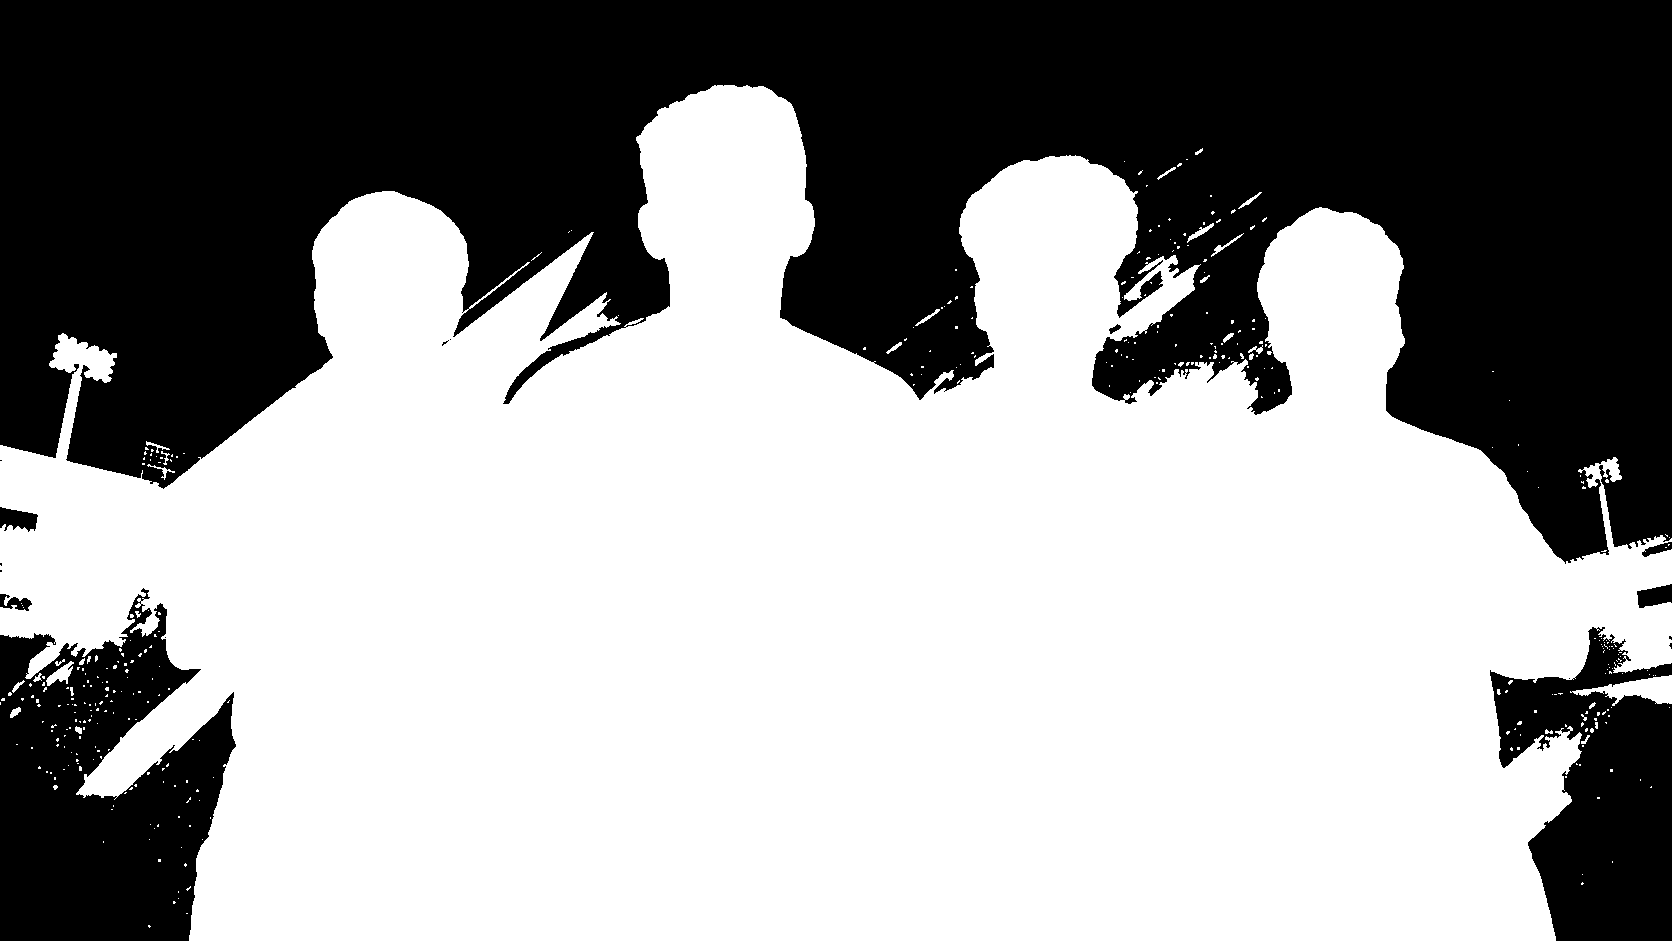
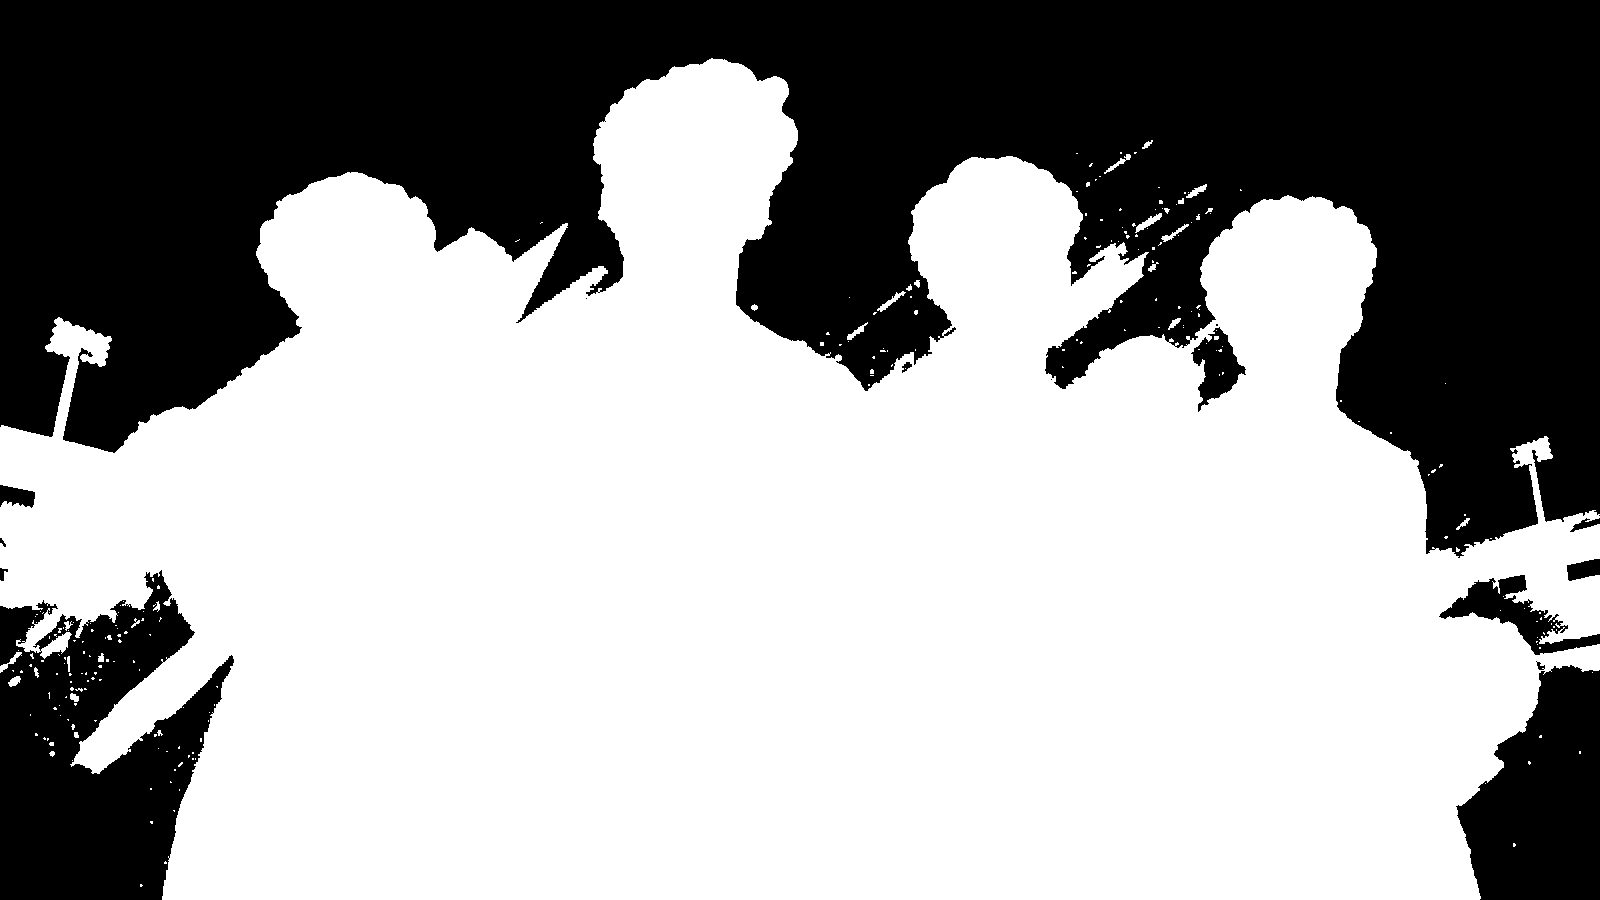
Replace the coaches with the new multi-sport team
"Our coaches" now shows the new group photo and four coaches, each
with a placeholder card: Karthik Raman (cricket), Senthil Arumugam
(founder, football), Harish Arumugam (badminton) and Vishal
Selvaraj (futsal & conditioning).

- scripts/build-team.py reworked for the new photos (JPEGs on a flat
  grey backdrop): it cuts each person out (keeping white kit, removing
  arm gaps and the light glow at the edges), aligns each cutout to the
  group photo and draws the hover outlines, picking whoever matches
  the portrait best where people overlap. RANSAC is seeded, so reruns
  are identical. Source photos live in ../replace-image (git-ignored).
- A hovered coach's head may now rise above the photo (clip-path in
  place of overflow: hidden) instead of being cut off.
- The matte, veil and bottom fade carry the page pattern; the section
  paints no background of its own.

diff --git a/marina-fc-site/src/sections/team/teamData.ts b/marina-fc-site/src/sections/team/teamData.ts
@@ -1,8 +1,10 @@
 /**
- * "Our coaches" content, transcribed from the client's cards in Reference/coaches/<name>/content.png.
+ * "Our coaches" content. Names and cards are placeholders for the pitch demo; photos are in
+ * ../replace-image.
  * Positions (where each cutout sits on the portrait, hover outlines) come from teamLayout.json,
  * generated by scripts/build-team.py; re-run it if the photos change.
  */
+import { CLUB } from '../../club'
 import layout from './teamLayout.json'
 
 export type CoachId = keyof typeof layout.people
@@ -22,53 +24,53 @@ export interface Coach {
 
 export const TEAM_COPY = {
   eyebrow: 'Our coaches',
-  title: 'The people behind Marina FC',
+  title: `The people behind ${CLUB.name}`,
   hintHover: 'Hover over a coach to meet them',
   hintTap: 'Tap a coach to meet them',
   qualificationsLabel: 'Qualifications & certifications',
   specializationLabel: 'Specialization',
 } as const
 
-/** Left to right, as they stand in the portrait. */
+/** Left to right, as they stand in the portrait. Placeholder people and copy for the pitch demo. */
 export const COACHES: readonly Coach[] = [
   {
-    id: 'mohan',
-    name: 'Mohan',
-    badge: 'Goalkeeper & grassroots coach',
-    role: 'Goalkeeper & Grassroots Coach',
-    qualifications: ['AIFF - D License Certified', 'Training Environment Design', 'Player Motivation & Discipline'],
-    bio: 'Mohan specializes in goalkeeper training and grassroots coaching, helping young athletes build strong fundamentals and technical confidence in goal.',
-    specialization: 'Goalkeeping techniques, youth fundamentals & grassroots development',
+    id: 'karthik',
+    name: 'Karthik Raman',
+    badge: 'Cricket coach',
+    role: 'Head Cricket Coach',
+    qualifications: ['Level 2 Cricket Coaching Certificate', 'Batting & Fielding Specialist', 'Video Match Analysis'],
+    bio: 'Karthik runs the cricket programme, from first net sessions to match-day squads, with a focus on sound technique, sharp fielding and reading the game.',
+    specialization: 'Batting technique, fielding drills & match awareness',
     side: 'right',
   },
   {
-    id: 'masthan',
-    name: 'Masthan Maharaj',
+    id: 'senthil',
+    name: 'Senthil Arumugam',
     badge: '2017–Present',
-    role: 'Founder & Technical Head',
-    qualifications: ['AFC-B License Certified', 'Professional Football Freestyler', 'Grassroots & Youth Development Specialist'],
-    bio: 'Masthan Maharaj founded Marina Football Club and has led its evolution from a local academy into a professional football ecosystem, blending grassroots philosophy with modern coaching standards.',
+    role: 'Founder & Head Football Coach',
+    qualifications: ['AFC B License Certified', 'Youth Academy Director', 'Grassroots & Youth Development Specialist'],
+    bio: `Senthil founded ${CLUB.name} and has grown it from weekend kickabouts into a multi-sport academy, pairing a grassroots philosophy with modern coaching standards.`,
     specialization: 'Technical methodology, player development & leadership',
     side: 'right',
   },
   {
-    id: 'vijay',
-    name: 'Vijay',
-    badge: 'Youth development coach',
-    role: 'Coach',
-    qualifications: ['AFC-Aligned Training Methods', 'Small-Sided Game Design', 'Player Progression Planning'],
-    bio: 'Vijay works with younger age groups to build confidence, ball mastery, and game understanding through structured sessions that are fun and purposeful.',
-    specialization: 'Technical drills, game understanding & player confidence',
+    id: 'harish',
+    name: 'Harish Arumugam',
+    badge: 'Badminton coach',
+    role: 'Badminton Coach',
+    qualifications: ['Certified Badminton Coach', 'Footwork & Agility Training', 'Junior Tournament Preparation'],
+    bio: 'Harish builds quick feet and quicker decisions on court, taking players from their first rallies to junior tournament play.',
+    specialization: 'Footwork, stroke technique & match tactics',
     side: 'left',
   },
   {
-    id: 'sathish',
-    name: 'Sathish',
-    badge: 'Performance & player support',
-    role: 'Coach',
-    qualifications: ['AIFF - D License Certified', 'Training Environment Design', 'Player Motivation & Discipline'],
-    bio: "Sathish helps players develop discipline, fitness, and match readiness while strengthening the academy's competitive culture.",
-    specialization: 'Physical conditioning, team coordination & athlete support',
+    id: 'vishal',
+    name: 'Vishal Selvaraj',
+    badge: 'Futsal & fitness',
+    role: 'Futsal & Conditioning Coach',
+    qualifications: ['Futsal Coaching License', 'Strength & Conditioning Certified', 'Injury Prevention & Recovery'],
+    bio: 'Vishal leads the futsal sessions and the strength work behind every squad, keeping players fast, sharp and match-ready all season.',
+    specialization: 'Small-sided play, speed & physical conditioning',
     side: 'left',
   },
 ]

diff --git a/marina-fc-site/src/sections/team/Team.tsx b/marina-fc-site/src/sections/team/Team.tsx
@@ -2,7 +2,9 @@ import { createTimeline, cubicBezier, stagger, utils } from 'animejs'
 import type { Timeline } from 'animejs'
 import { useCallback, useEffect, useRef, useState } from 'react'
 import type { CSSProperties, PointerEvent as ReactPointerEvent } from 'react'
+import { CLUB } from '../../club'
 import { prefersReducedMotion } from '../../lib/motion'
+import { usePaperSurface } from '../../lib/paperPattern'
 import { COACHES, TEAM_COPY, TEAM_LAYOUT } from './teamData'
 import type { Coach, CoachId } from './teamData'
 import './Team.css'
@@ -30,7 +32,7 @@ function cardStyle(coach: Coach): CSSProperties {
 }
 
 /**
- * "Our coaches": the client's team portrait with each person's own cutout stacked exactly over
+ * "Our coaches": the team portrait with each person's own cutout stacked exactly over
  * them (aligned by scripts/build-team.py). Hovering a person (tapping on touch screens, focusing
  * with the keyboard) blurs and softens the portrait, lifts that person's cutout forward and opens
  * their card. The portrait's white background meets the page colour through the same masked
@@ -40,6 +42,12 @@ export function Team() {
   const [active, setActive] = useState<CoachId | null>(null)
   const sectionRef = useRef<HTMLElement>(null)
   const stageRef = useRef<HTMLDivElement>(null)
+  const matteRef = useRef<HTMLSpanElement>(null)
+  const veilRef = useRef<HTMLSpanElement>(null)
+  const fadeRef = useRef<HTMLSpanElement>(null)
+  usePaperSurface(matteRef)
+  usePaperSurface(veilRef)
+  usePaperSurface(fadeRef)
   const cardRefs = useRef(new Map<CoachId, HTMLElement>())
   const lastPointer = useRef<string>('mouse')
 
@@ -194,7 +202,7 @@ export function Team() {
           <img
             className="team__portrait"
             src={portrait.src}
-            alt="The Marina FC coaching team: Mohan, founder Masthan Maharaj with a ball, Vijay and Sathish"
+            alt={`The ${CLUB.name} coaching team: ${COACHES.map((coach) => coach.name).join(', ')}`}
             width={portrait.width}
             height={portrait.height}
             loading="lazy"
@@ -202,8 +210,8 @@ export function Team() {
             draggable={false}
           />
           <img className="team__portrait team__portrait--soft" src={portrait.src} alt="" aria-hidden="true" loading="lazy" decoding="async" draggable={false} />
-          <span className="team__matte" aria-hidden="true" style={{ ['--matte' as string]: `url(${portrait.matte})` }} />
-          <span className="team__veil" aria-hidden="true" />
+          <span ref={matteRef} className="team__matte paper-surface" aria-hidden="true" style={{ ['--matte' as string]: `url(${portrait.matte})` }} />
+          <span ref={veilRef} className="team__veil paper-surface" aria-hidden="true" />
 
           {COACHES.map((coach) => {
             const { cutout, place } = people[coach.id]
@@ -219,7 +227,7 @@ export function Team() {
             )
           })}
 
-          <span className="team__fade" aria-hidden="true" />
+          <span ref={fadeRef} className="team__fade paper-surface" aria-hidden="true" />
 
           {COACHES.map((coach) => (
             <button

diff --git a/marina-fc-site/src/sections/team/Team.css b/marina-fc-site/src/sections/team/Team.css
@@ -10,7 +10,6 @@
   --card-w: clamp(300px, 28vw, 440px);
 
   padding: clamp(32px, 4vw, 80px) var(--edge) clamp(56px, 6vw, 120px);
-  background: var(--paper);
   color: var(--ink);
 }
 
@@ -90,7 +89,9 @@
   position: relative;
   width: 100%;
   aspect-ratio: var(--team-ratio);
-  overflow: hidden;
+  /* Clipped on three sides only: a lifted cutout's head may rise above the picture, as the person
+     standing tallest (hair near the top edge) would otherwise lose the top of their head. */
+  clip-path: inset(-12% 0 0 0);
   isolation: isolate;
 }
 
@@ -109,6 +110,8 @@
   filter: blur(14px);
   opacity: 0;
   transform: scale(1.04); /* hides the blur's soft rim at the frame edges */
+  /* ...and, scaled, ends just past the frame edges (1.04 x 96.3% = 100.15%) so no sharp hairline shows */
+  clip-path: inset(1.85%);
   transition: opacity 0.6s var(--ease-out);
 }
 
@@ -116,7 +119,6 @@
 .team__matte {
   position: absolute;
   inset: 0;
-  background: var(--paper);
   mix-blend-mode: darken;
   -webkit-mask: var(--matte) center / 100% 100% no-repeat;
   mask: var(--matte) center / 100% 100% no-repeat;
@@ -126,7 +128,6 @@
 .team__veil {
   position: absolute;
   inset: 0;
-  background: var(--paper);
   opacity: 0;
   pointer-events: none;
   transition: opacity 0.6s var(--ease-out);
@@ -173,9 +174,10 @@
 /* The portrait's bottom edge eases into the page. */
 .team__fade {
   position: absolute;
-  inset: auto 0 0;
+  inset: auto 0 -2px; /* past the edge: the frame's clip-path is anti-aliased, so cover its last pixel row */
   height: 16%;
-  background: linear-gradient(to bottom, rgb(250 247 242 / 0), var(--paper));
+  -webkit-mask-image: linear-gradient(to bottom, transparent, #000);
+  mask-image: linear-gradient(to bottom, transparent, #000);
   pointer-events: none;
 }
 

diff --git a/marina-fc-site/scripts/build-team.py b/marina-fc-site/scripts/build-team.py
@@ -1,47 +1,98 @@
 #!/usr/bin/env python3
 """
-Prepares the "Our coaches" section from the client's files in Reference/coaches:
-the team portrait, one transparent cutout per person and their content cards.
+Prepares the "Our coaches" section from the photos in ../replace-image: the group portrait and one
+full-length photo per person, each shot on a plain light-grey background.
 
-1. Aligns each cutout to its person in the portrait (SIFT features + RANSAC similarity
+1. Cuts each person out of their photo: the flat grey background connected to the edges becomes
+   transparent, and so do enclosed gaps (between an arm and the body) whose core is the backdrop
+   grey almost exactly. White kit (gloves, shoes, the ball's panels) is never that flat, so it
+   stays. Along the outline, pixels close to the backdrop grey, and the light glow the photos
+   have around each person, fade out, so no light fringe.
+2. Aligns each cutout to its person in the portrait (SIFT features + RANSAC similarity
    transform: scale, rotation, position), so the cutout can sit exactly over them.
-2. Builds the hover outlines from the aligned silhouettes. Where people overlap, the one standing
-   in front wins (measured: Masthan is in front of Mohan, Vijay in front of Sathish). Along the
-   Masthan/Vijay strip it alternates (his arm is in front, Vijay's shirt beside it), so there each
-   pixel goes to whichever cutout matches the portrait better, smoothed into clean shapes.
-3. Trims the cutouts' transparent margins (no visible change) and saves web copies:
+3. Builds the hover outlines from the aligned silhouettes. Where two people overlap, each pixel
+   goes to whichever cutout matches the portrait better (that is the one standing in front),
+   smoothed into clean shapes.
+4. Trims the cutouts' transparent margins (no visible change) and saves web copies:
    portrait as full-colour JPEG, cutouts as WebP with alpha. The originals are only read.
-4. Writes src/sections/team/teamLayout.json for the component.
+5. Writes src/sections/team/teamLayout.json for the component.
 
 Needs numpy + opencv-python-headless (e.g. python3 -m venv .venv && .venv/bin/pip install
 numpy opencv-python-headless), plus ffmpeg-static from node_modules. Run from the project root:
-  .venv/bin/python scripts/build-team.py
+  .venv/bin/python scripts/build-team.py [--preview <dir>]
+--preview also writes each cutout composited on magenta, to check the background removal.
 """
 import json, os, subprocess, sys, tempfile
 import cv2
 import numpy as np
 
 ROOT = os.path.dirname(os.path.dirname(os.path.abspath(__file__)))
-SRC = os.path.join(ROOT, '..', 'Reference(can_refer_for_design)', 'coaches')
+SRC = os.path.join(ROOT, '..', 'replace-image')
 OUT_MEDIA = os.path.join(ROOT, 'public', 'media', 'team')
 OUT_JSON = os.path.join(ROOT, 'src', 'sections', 'team', 'teamLayout.json')
 FFMPEG = os.path.join(ROOT, 'node_modules', 'ffmpeg-static', 'ffmpeg')
 
-PORTRAIT = 'Marina FC Team Portrait.png'
-BACK_TO_FRONT = ['mohan', 'sathish', 'vijay', 'masthan']
+PORTRAIT = 'group-image.jpeg'
 PEOPLE = [  # left to right in the portrait
-    ('mohan', 'Mohan/P-4.png'),
-    ('masthan', 'Masthan Maharaj/P-3.png'),
-    ('vijay', 'Vijay/P-2.png'),
-    ('sathish', 'Sathish/P_1.png'),
+    ('karthik', 'cricket-guy.jpeg'),
+    ('senthil', 'white-football-guy.jpeg'),
+    ('harish', 'shuttle-guy.jpeg'),
+    ('vishal', 'football-guy.jpeg'),
 ]
+# Background removal: how far (per channel) a pixel may sit from the backdrop grey and still count
+# as backdrop; an enclosed gap needs at least GAP_CORE pixels within GAP_TOLERANCE of it.
+BG_TOLERANCE = 3
+GAP_TOLERANCE = 1
+GAP_CORE = 300
+# Within this many px of the backdrop, alpha follows the distance from the backdrop grey, and
+# the photos' light glow around each person (brighter than the backdrop, no colour) is dropped.
+EDGE_BAND = 5
+EDGE_RAMP = 40
+GLOW_CHROMA = 14
 
 
 def run(args):
     subprocess.run(args, check=True)
 
 
+def cut_out(img):
+    """BGRA cutout of a person photographed on a flat backdrop."""
+    h, w = img.shape[:2]
+    border = np.concatenate([img[:4].reshape(-1, 3), img[-4:].reshape(-1, 3), img[:, :4].reshape(-1, 3), img[:, -4:].reshape(-1, 3)])
+    backdrop = np.median(border, axis=0)
+    dist = np.abs(img.astype(int) - backdrop).max(axis=2)
+    near = (dist <= BG_TOLERANCE).astype(np.uint8)
+    n, labels, stats, _ = cv2.connectedComponentsWithStats(near, connectivity=4)
+    bg = np.zeros((h, w), bool)
+    core = dist <= GAP_TOLERANCE
+    for i in range(1, n):
+        x, y, cw, ch, area = stats[i]
+        piece = labels == i
+        if x == 0 or y == 0 or x + cw == w or y + ch == h or (core & piece).sum() >= GAP_CORE:
+            bg |= piece
+    fg = (~bg).astype(np.uint8)
+    kernel = cv2.getStructuringElement(cv2.MORPH_ELLIPSE, (3, 3))
+    fg = cv2.morphologyEx(fg, cv2.MORPH_OPEN, kernel)
+    # keep the person (largest piece) and anything sizeable attached to it, drop stray specks
+    n, labels, stats, _ = cv2.connectedComponentsWithStats(fg, connectivity=8)
+    keep = np.zeros_like(fg)
+    for i in range(1, n):
+        if stats[i, cv2.CC_STAT_AREA] >= 400:
+            keep[labels == i] = 1
+    # soft 1px edge so the outline is not jagged
+    alpha = cv2.GaussianBlur(keep.astype(np.float32), (0, 0), 0.7)
+    # near the backdrop, light rim pixels (the backdrop blended into the edge) fade out
+    band = cv2.dilate((keep == 0).astype(np.uint8), kernel, iterations=EDGE_BAND) > 0
+    px = img.astype(int)
+    glow = (px.min(axis=2) >= backdrop.min() - BG_TOLERANCE) & (px.max(axis=2) - px.min(axis=2) <= GLOW_CHROMA)
+    edge_dist = np.where(glow, 0, dist)
+    alpha[band] *= np.clip((edge_dist[band] - BG_TOLERANCE) / EDGE_RAMP, 0, 1)
+    alpha = np.clip(alpha * 255, 0, 255).astype(np.uint8)
+    return np.dstack([img, alpha]), backdrop
+
+
 def align(base_gray, cut):
+    cv2.setRNGSeed(0)  # RANSAC is random; a fixed seed keeps reruns identical
     sift = cv2.SIFT_create(nfeatures=20000)
     kb, db = sift.detectAndCompute(base_gray, None)
     gray = cv2.cvtColor(cut[:, :, :3], cv2.COLOR_BGR2GRAY)
@@ -64,6 +115,7 @@ def polygon_from_mask(mask, W, H, eps=1.6):
 
 
 def main():
+    preview = sys.argv[sys.argv.index('--preview') + 1] if '--preview' in sys.argv else None
     os.makedirs(OUT_MEDIA, exist_ok=True)
     base = cv2.imread(os.path.join(SRC, PORTRAIT), cv2.IMREAD_COLOR)
     H, W = base.shape[:2]
@@ -74,7 +126,11 @@ def main():
     warped_alpha, diff = {}, {}
     tmp = tempfile.mkdtemp()
     for pid, rel in PEOPLE:
-        cut = cv2.imread(os.path.join(SRC, rel), cv2.IMREAD_UNCHANGED)
+        cut, backdrop = cut_out(cv2.imread(os.path.join(SRC, rel), cv2.IMREAD_COLOR))
+        if preview:
+            os.makedirs(preview, exist_ok=True)
+            a = cut[:, :, 3:].astype(np.float32) / 255
+            cv2.imwrite(os.path.join(preview, f'{pid}.jpg'), (cut[:, :, :3] * a + np.array([255, 0, 255]) * (1 - a)).astype(np.uint8))
         M, n_in, err = align(base_gray, cut)
         s = float(np.hypot(M[0, 0], M[1, 0]))
         angle = float(np.degrees(np.arctan2(M[1, 0], M[0, 0])))
@@ -99,18 +155,14 @@ def main():
                 'width': round(s * tw / W * 100, 3), 'rotate': round(angle, 3),
             },
         }
-        print(f'{pid:8s} scale {s:.4f} rotate {angle:+.3f} at ({px:.1f}, {py:.1f}) inliers {n_in} reprojection {err:.2f}px trimmed {tw}x{th}')
+        print(f'{pid:8s} backdrop {backdrop} scale {s:.4f} rotate {angle:+.3f} at ({px:.1f}, {py:.1f}) inliers {n_in} reprojection {err:.2f}px trimmed {tw}x{th}')
 
-    # ownership: back-to-front painting, then the mixed Masthan/Vijay strip by smoothed best match
+    # ownership: each pixel goes to the covering cutout that matches the portrait best (smoothed)
     ids = [p for p, _ in PEOPLE]
-    solid = {p: warped_alpha[p] > 128 for p in ids}
-    owner = np.full((H, W), -1, np.int8)
-    for p in BACK_TO_FRONT:
-        owner[solid[p]] = ids.index(p)
-    strip = solid['masthan'] & solid['vijay']
-    lead = cv2.blur((diff['masthan'] - diff['vijay']).astype(np.float32), (31, 31))
-    owner[strip & (lead > 0)] = ids.index('vijay')
-    owner[strip & (lead <= 0)] = ids.index('masthan')
+    solid = np.stack([warped_alpha[p] > 128 for p in ids])
+    cost = np.stack([cv2.blur(diff[p].astype(np.float32), (31, 31)) for p in ids])
+    cost[~solid] = np.inf
+    owner = np.where(solid.any(axis=0), cost.argmin(axis=0), -1)
     kernel = cv2.getStructuringElement(cv2.MORPH_ELLIPSE, (9, 9))
     for i, p in enumerate(ids):
         region = (owner == i).astype(np.uint8)
@@ -127,8 +179,8 @@ def main():
 
     run([FFMPEG, '-hide_banner', '-loglevel', 'error', '-y', '-i', os.path.join(SRC, PORTRAIT), '-pix_fmt', 'yuvj444p', '-q:v', '3',
          os.path.join(OUT_MEDIA, 'portrait.jpg')])
-    # Matte: the portrait's plain white background only. The flood fill would leak into the bright
-    # white shirt, so every aligned silhouette (plus a few px) is cut out of it.
+    # Matte: the portrait's plain white background only. The flood fill could leak into white kit
+    # details, so every aligned silhouette (plus a few px) is cut out of it.
     raw = os.path.join(tmp, 'matte.png')
     run(['node', os.path.join(ROOT, 'scripts', 'build-blend-mask.mjs'), '--input', os.path.join(SRC, PORTRAIT),
          '--output', raw, '--seed', 'top,left,right'])
